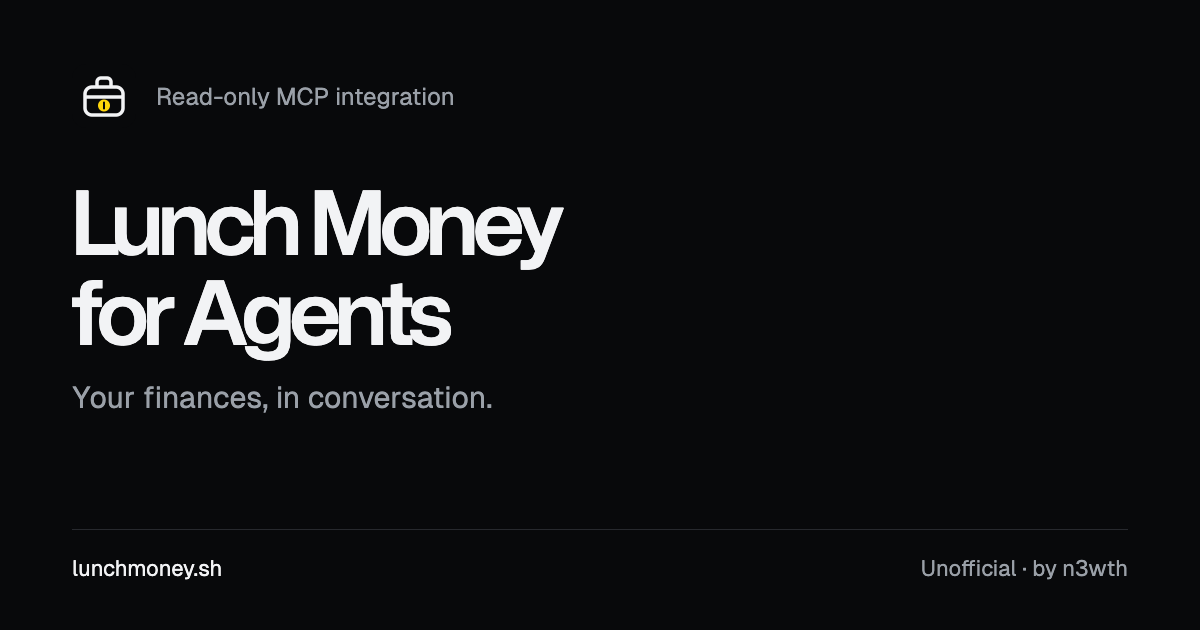
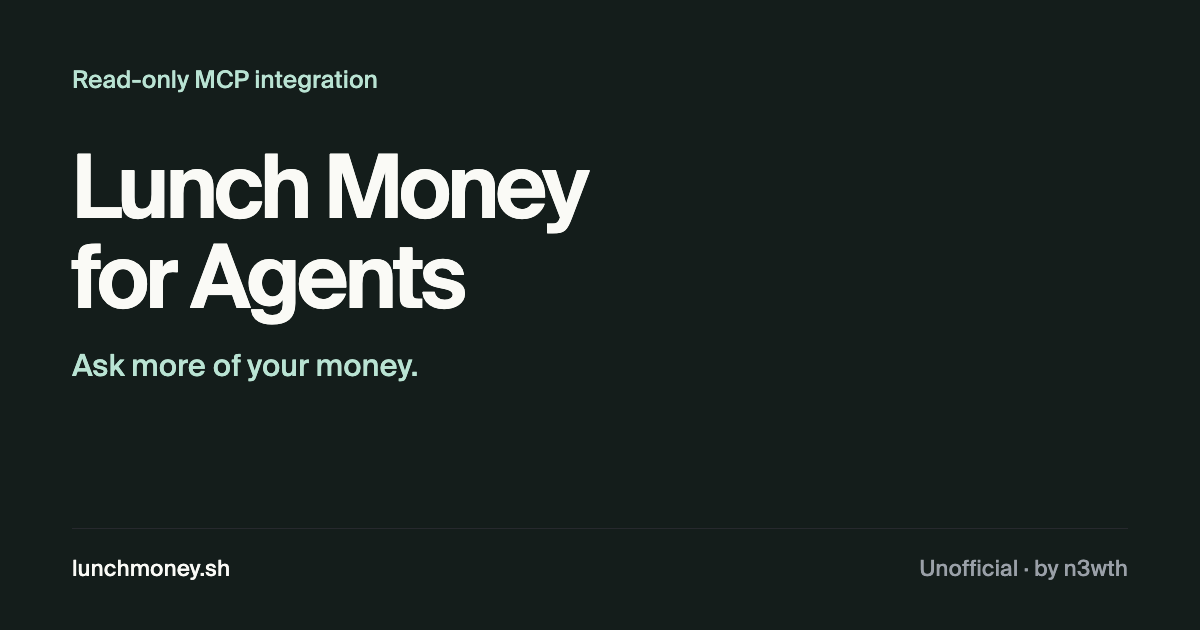
Align search and social metadata with landing brand

diff --git a/site/index.html b/site/index.html
@@ -3,14 +3,14 @@
 <head>
   <meta charset="utf-8">
   <meta name="viewport" content="width=device-width, initial-scale=1">
-  <title>Lunch Money MCP Server — Connect Your AI Agent</title>
-  <meta name="description" content="Connect the Lunch Money app to your AI agent with an unofficial, open-source MCP server. Ask about spending, budgets, bills, and balances with read-only access.">
+  <title>Lunch Money for Agents — Ask more of your money</title>
+  <meta name="description" content="Connect Lunch Money to your AI with a read-only MCP server. Understand spending, budgets, bills and balances. Independently developed and open source.">
   <link rel="canonical" href="https://lunchmoney.sh/">
   <meta name="color-scheme" content="light">
   <link rel="preload" href="/fonts/SuisseIntl-Book.otf" as="font" type="font/otf" crossorigin>
   <link rel="preload" href="/fonts/SuisseIntl-Semibold.otf" as="font" type="font/otf" crossorigin>
-  <meta property="og:title" content="Lunch Money MCP Server — Connect Your AI Agent">
-  <meta property="og:description" content="Ask your AI agent about Lunch Money spending, budgets, bills, and balances. Unofficial, open source, and read-only.">
+  <meta property="og:title" content="Lunch Money for Agents — Ask more of your money">
+  <meta property="og:description" content="Connect Lunch Money to your AI with a read-only MCP server. Understand spending, budgets, bills and balances. Independently developed and open source.">
   <meta property="og:type" content="website">
   <meta property="og:site_name" content="Lunch Money for Agents">
   <meta property="og:locale" content="en_US">
@@ -21,8 +21,8 @@
   <meta property="og:image:height" content="630">
   <meta property="og:image:alt" content="Lunch Money for Agents — an unofficial, read-only MCP integration by n3wth">
   <meta name="twitter:card" content="summary_large_image">
-  <meta name="twitter:title" content="Lunch Money MCP Server — Connect Your AI Agent">
-  <meta name="twitter:description" content="Ask your AI agent about Lunch Money spending, budgets, bills, and balances. Unofficial, open source, and read-only.">
+  <meta name="twitter:title" content="Lunch Money for Agents — Ask more of your money">
+  <meta name="twitter:description" content="Connect Lunch Money to your AI with a read-only MCP server. Understand spending, budgets, bills and balances. Independently developed and open source.">
   <meta name="twitter:image" content="https://lunchmoney.sh/social-card.png">
   <meta name="twitter:image:alt" content="Lunch Money for Agents — an unofficial, read-only MCP integration by n3wth">
   <meta name="robots" content="index, follow, max-image-preview:large">

diff --git a/scripts/social-card.html b/scripts/social-card.html
@@ -5,24 +5,24 @@
   <meta name="viewport" content="width=device-width, initial-scale=1">
   <title>Lunch Money for Agents social card</title>
   <style>
-    @font-face { font-family: Geist; src: url('../site/fonts/Geist-Regular.woff2'); font-weight: 400; }
-    @font-face { font-family: Mona; src: url('../site/fonts/MonaSans-Variable.woff2'); font-weight: 200 900; }
+    @font-face { font-family: Geist; src: url('../site/fonts/SuisseIntl-Book.otf'); font-weight: 400; }
+    @font-face { font-family: Mona; src: url('../site/fonts/SuisseIntl-Semibold.otf'); font-weight: 600; }
     * { box-sizing: border-box; }
-    body { margin: 0; width: 1200px; height: 630px; background: #08090b; color: #f2f3f5; font-family: Geist, sans-serif; }
+    body { margin: 0; width: 1200px; height: 630px; background: #141d1b; color: #fafaf6; font-family: Geist, sans-serif; }
     main { width: 100%; height: 100%; padding: 64px 72px 48px; display: flex; flex-direction: column; }
-    header { display: flex; align-items: center; gap: 20px; color: #9aa0a8; font-size: 24px; }
+    header { display: flex; align-items: center; gap: 20px; color: #b9e3d3; font-size: 24px; }
     header img { width: 64px; height: 64px; }
     h1 { margin: 49px 0 22px; font: 600 88px/1.02 Mona, sans-serif; letter-spacing: -4px; }
-    p { margin: 0; font-size: 30px; color: #9aa0a8; }
+    p { margin: 0; font-size: 30px; color: #b9e3d3; }
     footer { margin-top: auto; border-top: 1px solid #27292e; padding-top: 25px; display: flex; justify-content: space-between; font-size: 22px; }
     footer span:last-child { color: #9aa0a8; }
   </style>
 </head>
 <body>
   <main>
-    <header><img src="../site/icon.png" alt=""><span>Read-only MCP integration</span></header>
+    <header><span>Read-only MCP integration</span></header>
     <h1>Lunch Money<br>for Agents</h1>
-    <p>Your finances, in conversation.</p>
+    <p>Ask more of your money.</p>
     <footer><span>lunchmoney.sh</span><span>Unofficial · by n3wth</span></footer>
   </main>
 </body>
